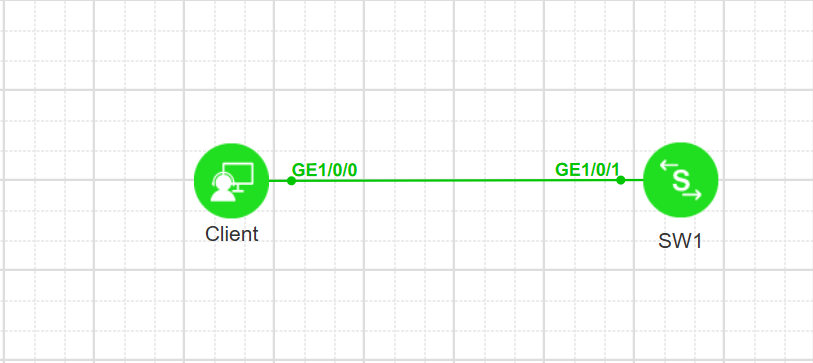
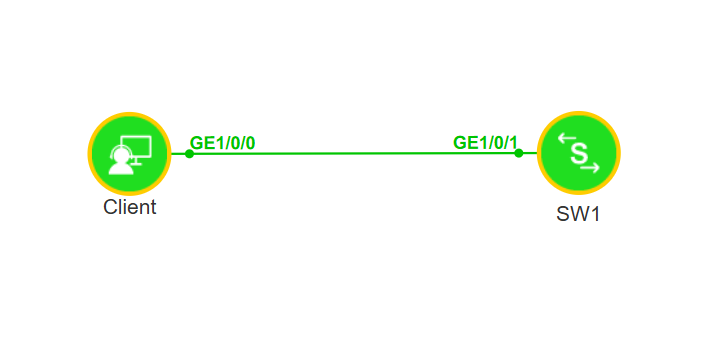
Please enter the commit message for your changes. Lines starting with '#' will be ignored, and an empty message aborts the commit.
On branch main
Your branch is up to date with 'origin/main'.

Changes to be committed:
	modified:   img/network/1791711853813.png
	modified:   "notes/Network/Huawei/01-\347\231\273\345\275\225\345\215\216\344\270\272\350\256\276\345\244\207.md"

diff --git a/notes/Network/Huawei/01-登录华为设备.md b/notes/Network/Huawei/01-登录华为设备.md
@@ -1,7 +1,7 @@
 ---
 title: 登录华为交换机
 date: 2026-10-11 11:58
-tags: [软考, 网络工程师, 华为, Telnet, AAA]
+tags: [网络工程师, 华为, Telnet, AAA]
 description: 在华为交换机上配置 VLANIF 管理地址并开启 STelnet，分别用密码认证和本地 AAA 认证远程登录，并用基本 ACL 限制登录主机。
 ---
 
@@ -28,9 +28,9 @@ description: 在华为交换机上配置 VLANIF 管理地址并开启 STelnet，
 
 | 设备 | 接口 | IP/掩码 | 所属 VLAN / 角色 |
 | --- | --- | --- | --- |
-| Client(AR6700) | G0/0/0 | 192.168.1.1/24 | Telnet 客户端 |
-| SW1(S6700) | G1/0/1（Access） | — | 接入 VLAN 100 |
-| SW1(S6700) | Vlanif100 | 192.168.1.254/24 | SSH服务端管理地址 |
+| Client | G0/0/0 | 192.168.1.1/24 | Telnet 客户端 |
+| SW1 | G1/0/1（Access） | — | 接入 VLAN 100 |
+| SW1 | Vlanif100 | 192.168.1.254/24 | SSH服务端管理地址 |
 
 ## 3、配置过程与命令
 
